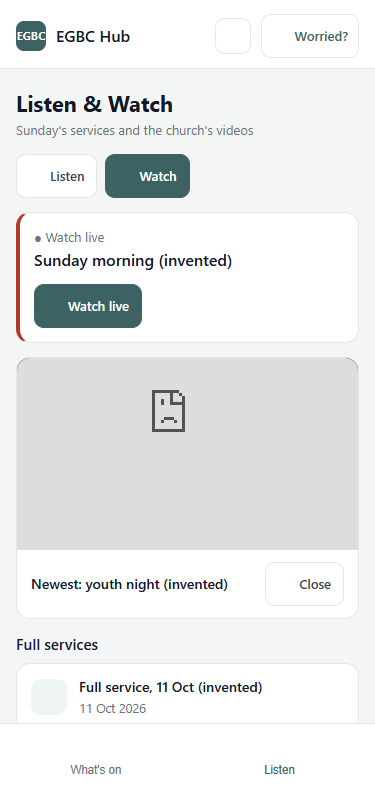
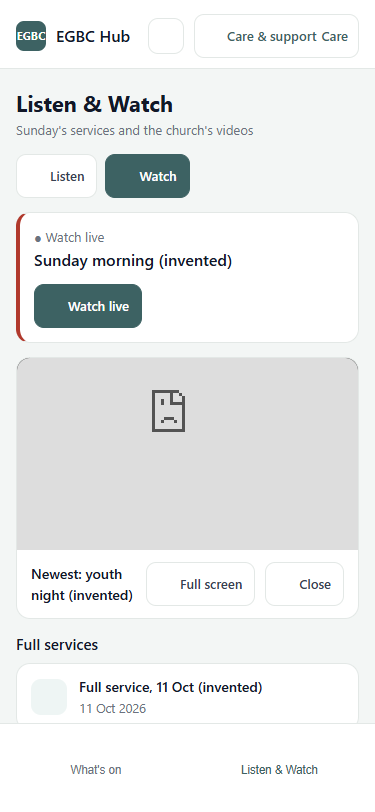
Events: a video full screen goes landscape and always closes (F-215)
YouTube's own full-screen button is taken away (fs=0): in the upright
app it stayed upright and had no way back. Our Full screen fills the
screen with the same player and a big close button that is always there;
the close button, Esc and back close it. Android turns the screen; an
iPhone or an upright phone gets the picture turned instead.
watch.test 45/45, 9 breaks.

Changed region(s): [[0.0587, 0.6773, 0.6453, 0.7389], [0.616, 0.0308, 0.9387, 0.0616], [0.6453, 0.9236, 0.8507, 0.9544]]

diff --git a/v2/egbc-app-listen.js b/v2/egbc-app-listen.js
@@ -50,7 +50,7 @@
   var H = null, STARTED = false, LOADED = false, FAILED = false;
   var D = { sermons: [], series: {}, show: null };
   var PROG = {};                         /* sermonId -> { pos, dur, done, at (ms) } */
-  var VIEW = { mode: 'home', seriesId: '', q: '', part: 'listen', video: '' };
+  var VIEW = { mode: 'home', seriesId: '', q: '', part: 'listen', video: '', big: false, real: false };
   var WD = { loaded: false, failed: false, live: null, members: [], channel: [] };
   var BASE = (function () { var sc = global.document && global.document.currentScript; return sc && sc.src ? sc.src.replace(/[^/]*$/, '').replace(/\?.*$/, '') : ''; })();
   function usesWatch() { return !global.EGBCChurch || !EGBCChurch.uses || EGBCChurch.uses('watch'); }
@@ -272,7 +272,15 @@
     return '<div data-lact="' + esc(lact) + '">' + H.row(icon, title, sub) + '</div>';
   }
   var STYLE = '<style>.lis-list>[data-lact]+[data-lact]{border-top:1px solid var(--line)}.lis-q{width:100%;min-height:44px;border:1px solid var(--line);border-radius:10px;padding:0 12px;font:inherit;background:var(--surface,#fff);color:var(--ink)}' +
-    '.lis-seek{width:100%;accent-color:var(--brand)}.lis-time{font-size:12.5px;color:var(--muted)}</style>';
+    '.lis-seek{width:100%;accent-color:var(--brand)}.lis-time{font-size:12.5px;color:var(--muted)}' +
+    /* The video box, and the same box full screen (see bigOn). */
+    '.lis-vbox{position:relative;aspect-ratio:16/9;background:#000;border-radius:13px 13px 0 0;overflow:hidden}' +
+    '.lis-vin{position:absolute;top:0;left:0;width:100%;height:100%}.lis-vin iframe{position:absolute;top:0;left:0;width:100%;height:100%;border:0}' +
+    '.lis-vx{display:none}' +
+    '.lis-vbox.big{position:fixed;top:0;left:0;right:0;bottom:0;width:100%;height:100%;aspect-ratio:auto;border-radius:0;z-index:2147483000}' +
+    '.lis-vbox.big .lis-vx{display:flex;align-items:center;justify-content:center;position:absolute;top:max(12px,env(safe-area-inset-top));right:max(12px,env(safe-area-inset-right));z-index:2;' +
+      'width:52px;height:52px;border-radius:50%;border:2px solid rgba(255,255,255,.75);background:rgba(0,0,0,.65);color:#fff;font:inherit;cursor:pointer}' +
+    '.lis-vbox.rot .lis-vin{top:50%;left:50%;transform:translate(-50%,-50%) rotate(90deg)}</style>';
 
   function nowCard() {
     var s = sermon(NOW); if (!s) return '';
@@ -328,13 +336,61 @@
      is a grid, and while it sizes its rows a percentage width is not known
      yet, so a 16:9 video sized by its own width counted as no height at all
      and its card came out one line tall (seen at 375px, 14 Oct). */
+  /* FULL SCREEN IS OURS, NOT YOUTUBE'S (Martin, 15 Oct: "it doesn't go
+     landscape and then you can't close it"). The app is held upright, so
+     YouTube's own full-screen button stayed upright, and inside it there
+     was no way back. So fs=0 takes YouTube's button away, and "Full
+     screen" here fills the screen with the same player and a big close
+     button that is always there. Back and Esc close it too. On Android
+     the screen turns sideways; where it can't (an iPhone), the picture is
+     turned sideways instead, so either way the video fills the screen. */
   function player(id, title) {
     return '<div class="card" data-l="player" style="padding:0">' +
-      '<div style="position:relative;aspect-ratio:16/9;background:#000;border-radius:13px 13px 0 0;overflow:hidden">' +
-      '<iframe id="lis-video" src="' + esc(EGBCWatch.embedUrl(id) + '&autoplay=1') + '" title="' + esc(title || 'Video') + '" style="position:absolute;top:0;left:0;width:100%;height:100%;border:0" ' +
-      'allow="autoplay; encrypted-media; picture-in-picture; fullscreen" allowfullscreen></iframe></div>' +
-      '<div style="padding:12px 14px;display:flex;gap:10px;align-items:center"><p style="margin:0;flex:1;min-width:0;font-weight:600;color:var(--ink)">' + esc(title || '') + '</p>' +
-      act('vclose', 'Close', false, 'x') + '</div></div>';
+      '<div class="lis-vbox' + (VIEW.big ? ' big' : '') + '" id="lis-vbox"><div class="lis-vin" id="lis-vin">' +
+      '<iframe id="lis-video" src="' + esc(EGBCWatch.embedUrl(id) + '&autoplay=1&fs=0') + '" title="' + esc(title || 'Video') + '" ' +
+      'allow="autoplay; encrypted-media; picture-in-picture; fullscreen" allowfullscreen></iframe>' +
+      '<button type="button" class="lis-vx" data-lact="vsmall" aria-label="Close full screen">' +
+        /* Drawn here, not by the icon library: this button must never be blank. */
+        '<svg width="26" height="26" viewBox="0 0 24 24" fill="none" stroke="currentColor" stroke-width="2.6" stroke-linecap="round" aria-hidden="true"><path d="M6 6l12 12M18 6L6 18"/></svg></button></div></div>' +
+      '<div style="padding:12px 14px;display:flex;gap:10px;align-items:center;flex-wrap:wrap"><p style="margin:0;flex:1;min-width:0;font-weight:600;color:var(--ink)">' + esc(title || '') + '</p>' +
+      act('vbig', 'Full screen', false, 'maximize') + act('vclose', 'Close', false, 'x') + '</div></div>';
+  }
+
+  function fsEl() { var d = global.document; return d.fullscreenElement || d.webkitFullscreenElement || null; }
+  /* Upright screen while full: turn the picture. */
+  function fit() {
+    var box = global.document.getElementById('lis-vbox'), inn = global.document.getElementById('lis-vin');
+    if (!box || !inn) return;
+    var turn = !!VIEW.big && global.innerHeight > global.innerWidth;
+    box.classList.toggle('rot', turn);
+    inn.style.width = turn ? box.clientHeight + 'px' : '';
+    inn.style.height = turn ? box.clientWidth + 'px' : '';
+  }
+  function bigOn() {
+    var box = global.document.getElementById('lis-vbox'); if (!box || VIEW.big) return;
+    VIEW.big = true; VIEW.real = false; box.classList.add('big'); fit();
+    /* Back (the phone's back gesture) closes full screen, not the app. */
+    try { global.history.pushState({ lisBig: 1 }, ''); } catch (e) {}
+    var rf = box.requestFullscreen || box.webkitRequestFullscreen;
+    if (!rf) return;
+    try {
+      var p = rf.call(box);
+      var then = function () {
+        VIEW.real = !!fsEl(); fit();
+        try { var o = global.screen && global.screen.orientation; if (o && o.lock) o.lock('landscape').then(fit, fit); } catch (e) {}
+      };
+      if (p && p.then) p.then(then, fit); else setTimeout(then, 0);
+    } catch (e) {}
+  }
+  function bigOff(fromBack) {
+    if (!VIEW.big) return;
+    VIEW.big = false; VIEW.real = false;
+    var box = global.document.getElementById('lis-vbox');
+    if (box) box.classList.remove('big', 'rot');
+    fit();
+    try { var o = global.screen && global.screen.orientation; if (o && o.unlock) o.unlock(); } catch (e) {}
+    if (fsEl()) { try { var x = global.document.exitFullscreen ? global.document.exitFullscreen() : global.document.webkitExitFullscreen(); if (x && x.catch) x.catch(function () {}); } catch (e) {} }
+    if (!fromBack) { try { if (global.history.state && global.history.state.lisBig) global.history.back(); } catch (e) {} }
   }
   /* "Watch live" while the link is showing; "Watch again" after, if the
      church chose that. Signed-in people only: the link is read nowhere else. */
@@ -405,10 +461,13 @@
     if (a.indexOf('play:') === 0) { play(a.slice(5)); return; }
     if (a.indexOf('series:') === 0) { VIEW.mode = 'series'; VIEW.seriesId = a.slice(7); redraw(); return; }
     if (a === 'home') { VIEW.mode = 'home'; redraw(); return; }
+    if (a.indexOf('part:') === 0 || a.indexOf('video:') === 0 || a === 'vlive') bigOff(false);
     if (a.indexOf('part:') === 0) { VIEW.part = a.slice(5) === 'watch' ? 'watch' : 'listen'; VIEW.video = ''; redraw(); return; }
     if (a.indexOf('video:') === 0) { if (A && !A.paused) A.pause(); VIEW.part = 'watch'; VIEW.video = a.slice(6); redraw(); return; }
     if (a === 'vlive') { if (A && !A.paused) A.pause(); VIEW.video = 'live'; redraw(); return; }
-    if (a === 'vclose') { VIEW.video = ''; redraw(); return; }
+    if (a === 'vbig') { bigOn(); return; }
+    if (a === 'vsmall') { bigOff(false); return; }
+    if (a === 'vclose') { bigOff(false); VIEW.video = ''; redraw(); return; }
     if (a === 'toggle') { toggle(); return; }
     if (a === 'back') { skip(-15); return; }
     if (a === 'fwd') { skip(30); return; }
@@ -424,6 +483,13 @@
         var b = e.target.closest && e.target.closest('[data-lact]');
         if (b) { e.preventDefault(); doAct(b.getAttribute('data-lact')); }
       });
+      /* Leaving full screen any way at all - the close button, Esc, back,
+         or the phone's own gesture - puts the video back in its card. */
+      doc.addEventListener('keydown', function (e) { if (e.key === 'Escape' && VIEW.big) bigOff(false); });
+      global.addEventListener('popstate', function () { if (VIEW.big) bigOff(true); });
+      var fsc = function () { if (VIEW.big && VIEW.real && !fsEl()) bigOff(false); else fit(); };
+      doc.addEventListener('fullscreenchange', fsc); doc.addEventListener('webkitfullscreenchange', fsc);
+      global.addEventListener('resize', fit);
       doc.addEventListener('input', function (e) {
         if (e.target && e.target.id === 'lis-q') { VIEW.q = e.target.value; var r = doc.getElementById('lis-res'); if (r) r.innerHTML = results(); }
         if (e.target && e.target.id === 'lis-seek' && A && NOW) { A.currentTime = +e.target.value; live(); }

diff --git a/v2/FINDINGS-events.md b/v2/FINDINGS-events.md
@@ -6674,3 +6674,34 @@ list).
 **For the main window:** egbc-events-checkin.js changed (check-ins now
 record their building). My pages load ?v=202610152300; app.html still
 loads ?v=202610101200 - please bump it when you next touch app.html.
+
+### F-215 — A YouTube video full screen didn't go landscape and couldn't be closed (Martin, 15 Oct)
+
+**Why:** the installed app is held upright (the manifests say
+`"orientation": "portrait"`), so YouTube's own full-screen button stayed
+upright, and inside YouTube's full screen there was no way back.
+
+**Done (events window, egbc-app-listen.js, "Listen & Watch"):** YouTube's
+own full-screen button is taken away (`fs=0`). Under the video there is a
+"Full screen" button of ours. It fills the screen with the same player
+(not reloaded) and a big close button that is always on top. The close
+button, Esc, and the phone's back all close it, and back stays in the
+app. On Android it asks the screen to turn sideways. Where it can't (an
+iPhone, or an upright phone that won't turn), the picture itself is
+turned sideways to fill the screen. Proved: watch.test 43/43, with 9
+deliberate breaks.
+
+**For the main window, please:**
+1. Bump `egbc-app-listen.js?v=` in app.html to 202610152330.
+2. The hub's Watch card (hub-app.js about line 1522): its iframe `allow`
+   has no `fullscreen`, so the same problem waits there. Either add the
+   same pattern there, or add `&fs=0` and a link to the app's player. I
+   haven't touched hub-app.js.
+3. Optional: `"orientation": "any"` in manifest-app.json and
+   manifest-hub.json would let the whole app turn with the phone. Not
+   needed for the video now.
+
+**Still to check on a real phone (Martin):** a real phone can't be
+emulated here. Open the app, Me, Listen & Watch, play a video, then
+Full screen. Does it go sideways, and does the close button bring you
+back?
